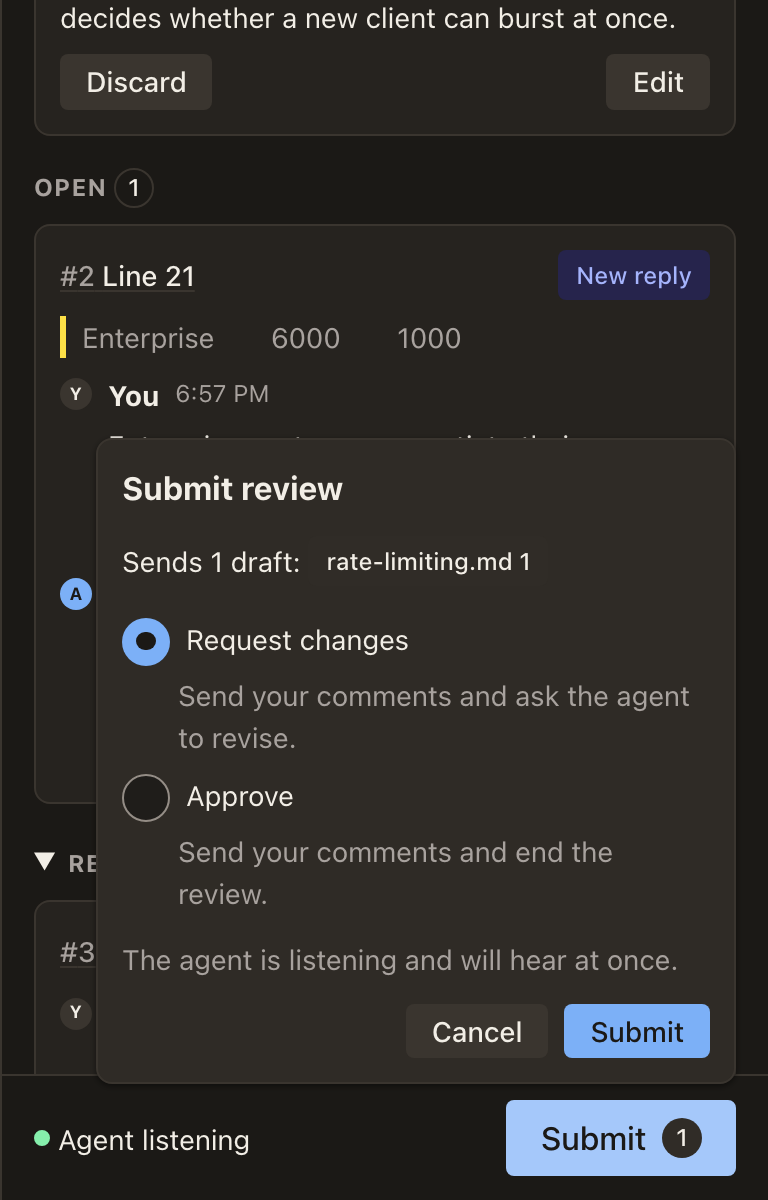
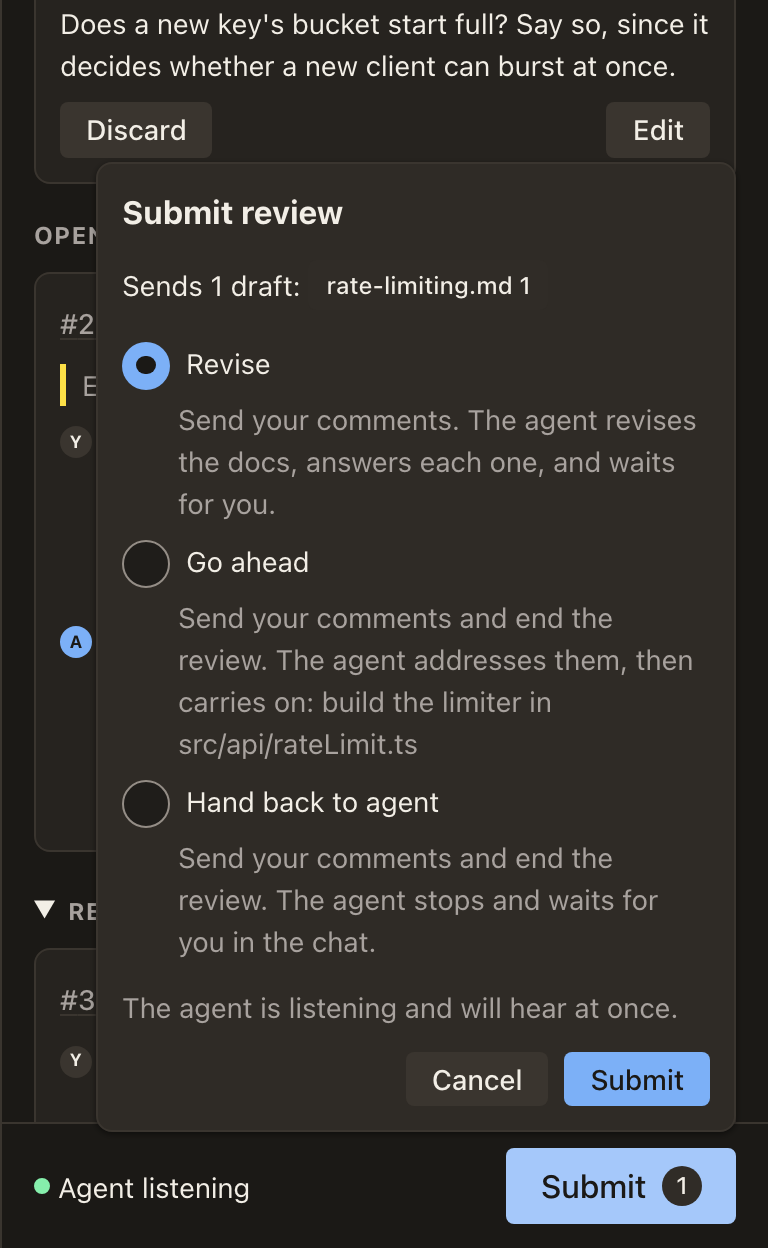
Show the agent's next task under Go ahead (#27)
Nothing in the Submit popover said what Go ahead leads to, which on a
plan or spec is usually the start of implementation. `open` now takes
`--next-task`, one line of at most 200 characters, and Go ahead's
description names it, for example "then carries on: implement the plan
in src/server". The skill asks the agent to pass it when it opens a
review and again when it resumes one after a hand-back, and the README's
Submit screenshots are retaken to show the three verdicts with a next
task.

Stacked on #26.

🤖 Generated with [Claude Code](https://claude.com/claude-code)

---------

diff --git a/src/web/components/SubmitMenu/SubmitMenu.tsx b/src/web/components/SubmitMenu/SubmitMenu.tsx
@@ -27,6 +27,11 @@ export interface SubmitMenuProps {
   hasUnsavedText: boolean;
 
   /**
+   * What the agent will do once the user says go ahead, or null when it has not said
+   */
+  nextTask: string | null;
+
+  /**
    * Called after the drafts are submitted
    */
   onSubmitted: () => void;
@@ -35,7 +40,13 @@ export interface SubmitMenuProps {
 /**
  * Sends the review's drafts to the agent with the verdict the user chooses: Revise, Go ahead or Hand back to agent
  */
-export function SubmitMenu({ agentWaiting, drafts, hasUnsavedText, onSubmitted }: SubmitMenuProps): JSX.Element {
+export function SubmitMenu({
+  agentWaiting,
+  drafts,
+  hasUnsavedText,
+  nextTask,
+  onSubmitted,
+}: SubmitMenuProps): JSX.Element {
   const api = useReviewApi();
   const draftCount = drafts.sent.reduce((sum, { count }) => sum + count, 0);
   // Held while the popover is open, so drafts going then can't turn Revise into Go ahead. While it is shut, the verdict
@@ -72,7 +83,7 @@ export function SubmitMenu({ agentWaiting, drafts, hasUnsavedText, onSubmitted }
         Submit{" "}
         {draftCount > 0 && (
           <>
-            <Counter count={draftCount} /> <VisuallyHidden>{draftCount === 1 ? "draft" : "drafts"}</VisuallyHidden>
+            <Counter count={draftCount} /> <VisuallyHidden>{draftNoun(draftCount)}</VisuallyHidden>
           </>
         )}
       </Button>
@@ -83,13 +94,12 @@ export function SubmitMenu({ agentWaiting, drafts, hasUnsavedText, onSubmitted }
           <VerdictChoice
             checkedRef={checkedVerdictRef}
             draftCount={draftCount}
+            nextTask={nextTask}
             onVerdictChange={setHeldVerdict}
             verdict={verdict}
           />
           <Text as="p" size="sm" tone="muted">
-            {agentWaiting
-              ? "The agent is listening and will hear at once."
-              : "The agent isn't listening. It will find this in its inbox when it next looks."}
+            {describeListening(agentWaiting)}
           </Text>
           {hasUnsavedText && (
             <Alert tone="warning">Save or discard the comment you're writing before you submit.</Alert>
@@ -121,4 +131,14 @@ export function SubmitMenu({ agentWaiting, drafts, hasUnsavedText, onSubmitted }
  */
 function openingVerdictOf(draftCount: number): Verdict {
   return draftCount > 0 ? "revise" : "go-ahead";
+}
+
+function draftNoun(count: number): string {
+  return count === 1 ? "draft" : "drafts";
+}
+
+function describeListening(agentWaiting: boolean): string {
+  return agentWaiting
+    ? "The agent is listening and will hear at once."
+    : "The agent isn't listening. It will find this in its inbox when it next looks.";
 }

diff --git a/src/cli/commands/openCommand.ts b/src/cli/commands/openCommand.ts
@@ -4,6 +4,7 @@ import { parseArgs } from "node:util";
 
 import openInBrowser from "open";
 
+import { nextTaskSchema } from "../../shared/review/reviewRoundSchema";
 import type { CliContext } from "../CliContext";
 import { CliError } from "../CliError";
 import { connectToServer } from "../connectToServer";
@@ -14,16 +15,21 @@ import { toRepositoryPath } from "../toRepositoryPath";
 
 export async function openCommand(args: string[], context: CliContext): Promise<number> {
   const { cliPath, terminal } = context;
-  const { positionals } = parseArgs({ allowPositionals: true, args, options: {} });
+  const { positionals, values } = parseArgs({
+    allowPositionals: true,
+    args,
+    options: { "next-task": { type: "string" } },
+  });
   if (positionals.length > 1) {
     throw new CliError("open takes at most one path", "Run `markdown-review open [path]`.", 2);
   }
+  const nextTask = readNextTask(values["next-task"]);
   const target = positionals[0];
   const workingRoot = await findRoot(terminal.workingDirectory);
   const { document, root } =
     target === undefined ? { document: null, root: workingRoot } : await locate(terminal.workingDirectory, target);
   const client = await connectToServer(root, cliPath);
-  const { navigated, url } = await client.open(document);
+  const { navigated, url } = await client.open(document, nextTask);
   const shown = navigated ? "Shown in the browser tab that was already open." : await openUrl(url, terminal.env);
   const nextStep = root === workingRoot ? waitForCommentsStep : waitForCommentsInRootStep(root);
   const notices = await readUpdateNotices(context, root, false);
@@ -32,6 +38,21 @@ export async function openCommand(args: string[], context: CliContext): Promise<
     `Opened ${document ?? "the docs list"} for review: ${url}\n${shown}\n\n${noticeSection}next_step: ${nextStep}\n`
   );
   return 0;
+}
+
+function readNextTask(value: string | undefined): string | null {
+  if (value === undefined) {
+    return null;
+  }
+  const result = nextTaskSchema.safeParse(value);
+  if (!result.success) {
+    throw new CliError(
+      "--next-task must be one line of at most 200 characters",
+      'Run `markdown-review open <doc.md> --next-task "<what you will do once the user says go ahead>"`.',
+      2
+    );
+  }
+  return result.data;
 }
 
 async function locate(workingDirectory: string, target: string): Promise<{ document: string; root: string }> {

diff --git a/src/web/components/SubmitMenu/VerdictChoice.tsx b/src/web/components/SubmitMenu/VerdictChoice.tsx
@@ -17,6 +17,11 @@ export interface VerdictChoiceProps {
    */
   draftCount: number;
 
+  /**
+   * What the agent will do once the user says go ahead, or null when it has not said
+   */
+  nextTask: string | null;
+
   onVerdictChange: (verdict: Verdict) => void;
   verdict: Verdict;
 }
@@ -24,9 +29,16 @@ export interface VerdictChoiceProps {
 /**
  * The verdicts the user can submit with: Revise, which needs a draft, Go ahead, or Hand back to agent
  */
-export function VerdictChoice({ checkedRef, draftCount, onVerdictChange, verdict }: VerdictChoiceProps): JSX.Element {
+export function VerdictChoice({
+  checkedRef,
+  draftCount,
+  nextTask,
+  onVerdictChange,
+  verdict,
+}: VerdictChoiceProps): JSX.Element {
   const refFor = (value: Verdict): Ref<HTMLInputElement> | undefined => (value === verdict ? checkedRef : undefined);
   const hasDrafts = draftCount > 0;
+  const carriesOn = nextTask === null ? "carries on with its task." : `carries on: ${nextTask}`;
   return (
     <RadioGroup
       label={<VisuallyHidden>Verdict</VisuallyHidden>}
@@ -43,8 +55,8 @@ export function VerdictChoice({ checkedRef, draftCount, onVerdictChange, verdict
       <VerdictOption
         description={
           hasDrafts
-            ? "Send your comments and end the review. The agent addresses them, then carries on with its task."
-            : "End the review. The agent carries on with its task."
+            ? `Send your comments and end the review. The agent addresses them, then ${carriesOn}`
+            : `End the review. The agent ${carriesOn}`
         }
         isDisabled={false}
         label="Go ahead"

diff --git a/src/integration/agentLoop.integration.test.ts b/src/integration/agentLoop.integration.test.ts
@@ -1,6 +1,7 @@
 import { describe, expect, test } from "vitest";
 
 import { handedBackStep, pollTimeoutAdvice, waitForCommentsStep, wentAheadStep } from "../cli/nextSteps";
+import { threadsSnapshotSchema } from "../shared/api/apiResponseSchemas";
 
 import { plan, setUpReviewRepository } from "./testing/setUpReviewRepository";
 
@@ -106,6 +107,15 @@ describe("agent loop", () => {
     const { stdout } = await poll.result;
     expect(stdout).toContain("The user asked to hand back to you, with comments on 1 thread (docs/plan.md: 1)");
     expect(stdout).toContain("next_step: Stop here: do not edit the docs, resolve or reply to #1,");
+  });
+
+  test("must show the browser the agent's next task when the agent opens a doc with one", async () => {
+    const repository = getRepository();
+
+    await repository.run(["open", "docs/plan.md", "--next-task", "implement the plan in src/server"]);
+
+    const snapshot = threadsSnapshotSchema.parse(await (await repository.browser("GET", "/api/threads?all=1")).json());
+    expect(snapshot.round?.nextTask).toBe("implement the plan in src/server");
   });
 
   test("must say what is left after each reply and resolve", async () => {

diff --git a/src/web/components/ReviewBar/ReviewBar.test.tsx b/src/web/components/ReviewBar/ReviewBar.test.tsx
@@ -146,6 +146,31 @@ describe("ReviewBar", () => {
     }
   );
 
+  test.each([
+    {
+      drafts: oneDraft,
+      submit: "Submit 1 draft",
+      description:
+        "Send your comments and end the review. The agent addresses them, then carries on: implement the plan in src/server",
+    },
+    {
+      drafts: noDrafts,
+      submit: "Submit",
+      description: "End the review. The agent carries on: implement the plan in src/server",
+    },
+  ])(
+    "must name the agent's next task under Go ahead when the user opens the popover with $submit",
+    async ({ description, drafts, submit }) => {
+      const { render } = setUpTest();
+      const user = userEvent.setup();
+      render({ drafts, round: buildRound({ nextTask: "implement the plan in src/server" }) });
+
+      await user.click(screen.getByRole("button", { name: submit }));
+
+      expect(elements.submitDialog().getByRole("radio", { name: "Go ahead" })).toHaveAccessibleDescription(description);
+    }
+  );
+
   test("must say how many drafts a submit sends, and which docs they are on", async () => {
     const { render } = setUpTest();
     const user = userEvent.setup();

diff --git a/src/cli/runCli.test.ts b/src/cli/runCli.test.ts
@@ -53,6 +53,21 @@ describe("runCli", () => {
       args: ["poll", "--timeout", "soon"],
       message: "error: --timeout must be",
     },
+    {
+      condition: "the next task is blank",
+      args: ["open", "docs/plan.md", "--next-task", "  "],
+      message: "error: --next-task must be one line of at most 200 characters",
+    },
+    {
+      condition: "the next task is longer than 200 characters",
+      args: ["open", "docs/plan.md", "--next-task", "a".repeat(201)],
+      message: "error: --next-task must be one line of at most 200 characters",
+    },
+    {
+      condition: "the next task has more than one line",
+      args: ["open", "docs/plan.md", "--next-task", "implement the plan\nthen ship it"],
+      message: "error: --next-task must be one line of at most 200 characters",
+    },
   ])("must exit 2 with the error and a next_step when $condition", async ({ args, message }) => {
     const { run } = await setUpTest();
 

diff --git a/src/e2e/review.e2e.ts b/src/e2e/review.e2e.ts
@@ -71,6 +71,17 @@ test("must end the agent's poll when the user says go ahead", async ({ page, rev
   await expect(page.getByText("Going ahead", { exact: true })).toBeVisible();
 });
 
+test("must name the agent's next task under Go ahead when the agent gives one", async ({ page, review }) => {
+  await review.open("docs/plan.md");
+
+  await review.run(["open", "docs/plan.md", "--next-task", "update the install section"]);
+  await page.getByRole("button", { exact: true, name: submitButtonName(0) }).click();
+
+  await expect(
+    page.getByRole("dialog", { name: "Submit review" }).getByRole("radio", { name: "Go ahead" })
+  ).toHaveAccessibleDescription("End the review. The agent carries on: update the install section");
+});
+
 test("must end the agent's poll and tell it to stop when the user hands the review back", async ({ page, review }) => {
   await review.open("docs/plan.md");
   const poll = await review.startPoll();

diff --git a/src/cli/ServerClient.ts b/src/cli/ServerClient.ts
@@ -40,9 +40,14 @@ export class ServerClient {
     return this.request("GET", "/api/health", healthSchema, { signal: AbortSignal.timeout(healthTimeoutMilliseconds) });
   }
 
-  public open(document: string | null): Promise<AgentOpenResponse> {
+  /**
+   * @param document the doc to show, or null for the docs list
+   * @param nextTask what the agent will do once the user says go ahead; null keeps a joined round's task and leaves a
+   *   new round without one
+   */
+  public open(document: string | null, nextTask: string | null): Promise<AgentOpenResponse> {
     return this.request("POST", "/api/agent/open", agentOpenResponseSchema, {
-      body: document === null ? {} : { path: document },
+      body: { ...(document === null ? {} : { path: document }), ...(nextTask === null ? {} : { nextTask }) },
     });
   }
 

diff --git a/src/cli/nextSteps.ts b/src/cli/nextSteps.ts
@@ -23,8 +23,9 @@ export const handedBackStep =
   "Tell the user in the chat that you have stopped, and wait for their instructions.";
 
 export const handedBackFinishedStep =
-  "The user handed the review back. Tell them what you changed and wait for their instructions; run " +
-  "`markdown-review open <path>` and `markdown-review poll` only if they ask you to continue the review.";
+  "The user handed the review back. Tell them what you changed and wait for their instructions. Only if they ask " +
+  'you to continue the review, run `markdown-review open <path> --next-task "<what you will do once the user says ' +
+  'go ahead>"`, then `markdown-review poll`.';
 
 /**
  * @param ids the threads that need the agent, at least one

diff --git a/src/cli/ServerClient.test.ts b/src/cli/ServerClient.test.ts
@@ -31,10 +31,10 @@ describe("ServerClient", () => {
   test("must start a round and return the doc's URL when the agent opens a doc", async () => {
     const { client } = await setUpTest();
 
-    const opened = await client.open("docs/plan.md");
+    const opened = await client.open("docs/plan.md", "implement the plan");
 
     expect(opened).toMatchObject({ navigated: false, url: `http://127.0.0.1:${client.port}/document/docs/plan.md` });
-    expect(opened.round?.documents).toEqual(["docs/plan.md"]);
+    expect(opened.round).toMatchObject({ documents: ["docs/plan.md"], nextTask: "implement the plan" });
   });
 
   test("must return an empty, timed-out inbox when a poll's timeout passes with nothing to do", async () => {

diff --git a/src/cli/helpText.ts b/src/cli/helpText.ts
@@ -9,8 +9,10 @@ const commandHelp: Record<string, string> = {
     "  ~/.claude/skills. Claude Code and OpenCode both read skills from there.",
   ].join("\n"),
   open: [
-    "markdown-review open [path]",
-    "  Start a review round and show the doc (or the docs list) in the user's browser. Prints the URL.",
+    "markdown-review open [path] [--next-task <text>]",
+    "  Start a review round, or add the doc to the one in progress, and show the doc (or the docs list) in the",
+    "  user's browser. --next-task says what you will do once the user says go ahead; the user sees it.",
+    "  Prints the URL.",
   ].join("\n"),
   poll: [
     "markdown-review poll [--document <path>] [--timeout <seconds>]",

diff --git a/src/cli/formatAgentAction.test.ts b/src/cli/formatAgentAction.test.ts
@@ -74,8 +74,9 @@ describe("formatAgentAction", () => {
 
     expect(text).toBe(
       "Resolved #4. No threads need you now.\n\nnext_step: The user handed the review back. Tell them what you " +
-        "changed and wait for their instructions; run `markdown-review open <path>` and `markdown-review poll` only " +
-        "if they ask you to continue the review.\n"
+        "changed and wait for their instructions. Only if they ask you to continue the review, run " +
+        '`markdown-review open <path> --next-task "<what you will do once the user says go ahead>"`, then ' +
+        "`markdown-review poll`.\n"
     );
   });
 });
